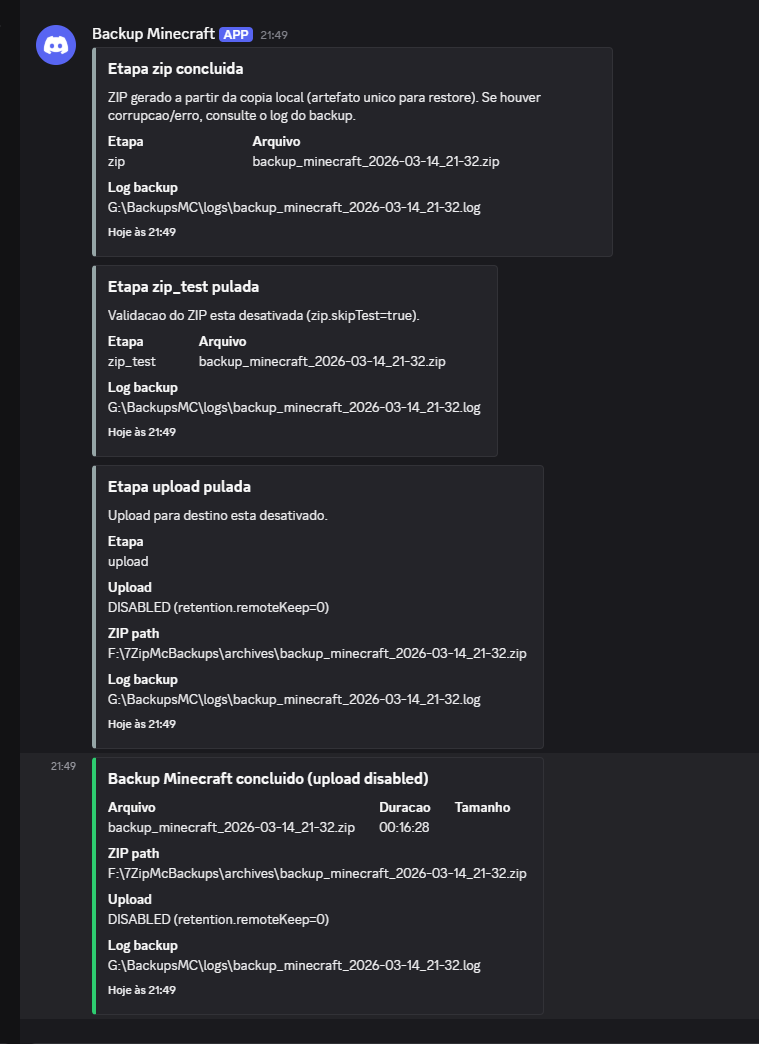
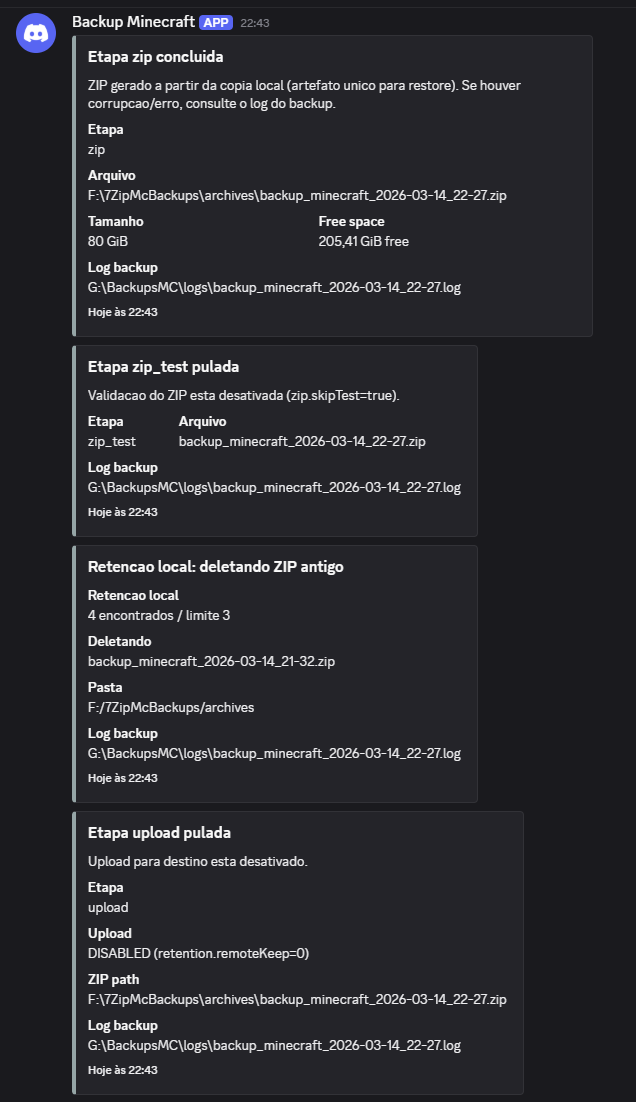
Adicionado informações de espaço em disco nas etapas zip

Changed region(s): [[0.0299, 0.0, 0.8066, 1.0], [0.5975, 0.7663, 0.6871, 0.7969]]

diff --git a/README.md b/README.md
@@ -75,45 +75,68 @@ O `config.json.example` contém todas as chaves suportadas. Resumo:
 
 #### `source`
 
-- `source.remote` (obrigatório)
+- `source.remote` (SFTP)
   - Nome do remote SFTP no `rclone` (ex.: `sftp_bedhost:`).
+  - Se vazio: so e aceito se `source.localPath` estiver preenchido.
+  - Se preenchido: o backup roda em modo SFTP e executa a etapa `sync` (rclone) para trazer os arquivos para a pasta local de trabalho.
+- `source.localPath` (local)
+  - Caminho local da pasta do servidor (ex.: `C:/minecraft/server`).
+  - Se estiver configurado, a etapa `sync` e pulada e o ZIP e gerado diretamente dessa pasta.
+  - Se vazio: o script usa `source.remote` (SFTP).
 - `source.exclude` (opcional)
-  - Lista de padrões para ignorar no sync (ex.: `logs/**`).
+  - Lista de padroes para ignorar no sync/zip (ex.: `logs/**`).
+  - Se vazio/ausente: nada e excluido.
+  - Se preenchido:
+    - No modo SFTP: vira `--exclude` no rclone.
+    - No modo local: vira `-xr!<padrao>` no 7-Zip.
 
 #### `work`
 
 - `work.tempDir` (obrigatório)
   - Pasta de trabalho (vai conter `sync_dir`, `logs`, e opcionalmente `archives`).
+  - Se vazio: o script falha no inicio (config invalido).
 - `work.syncDirName` (opcional)
   - Nome do diretório local sincronizado (padrão: `sync_dir`).
+  - Se vazio/ausente: usa `sync_dir`.
 - `work.localArchiveDir` (opcional)
   - Onde salvar os `.zip` quando `retention.localKeep > 0`.
+  - Se vazio/ausente: usa `<work.tempDir>/archives`.
 
 #### `retention`
 
 - `retention.localKeep` (opcional)
   - Quantos `.zip` manter localmente (0 = não manter).
+  - Se 0: o ZIP pode ser criado fora de `archives` e, se o upload estiver ativado, ele pode ser movido para o destino (nao fica copia local).
+  - Se > 0: o ZIP e salvo em `work.localArchiveDir` e o script deleta ZIPs antigos localmente ate manter somente esse limite.
 - `retention.remoteKeep` (obrigatório)
   - Quantos `.zip` manter no destino (0 = desativa upload/rotação no destino).
+  - Se 0: etapa `upload` e pulada e etapa `rotate` nao roda.
+  - Se > 0: faz upload e depois lista/deleta backups antigos no destino para manter somente esse limite.
 
 #### `zip`
 
 - `zip.compression` (opcional)
   - Nível `-mx` do 7-Zip (0 a 9).
+  - Se vazio/ausente: usa `2`.
 - `zip.skipTest` (opcional)
   - `true` para não rodar `7z t`.
+  - Se vazio/ausente: usa `false` (faz validacao).
 
 #### `dependencies`
 
 - `dependencies.sevenZip.windowsPath` (opcional)
   - Caminho do `7z.exe` no Windows.
+  - Se vazio/ausente: usa `C:\Program Files\7-Zip\7z.exe`.
 - `dependencies.sevenZip.linuxCommand` (opcional)
   - Comando do 7-Zip no Linux (ex.: `7z`).
+  - Se vazio/ausente: usa `7z`.
 
 #### `destination`
 
 - `destination.provider` (obrigatório)
   - `b2` | `gdrive` | `s3`.
+  - Se vazio: o script falha no inicio (config invalido).
+  - Impacto: define quais chaves abaixo sao obrigatorias e como montar o path do destino no rclone.
 
 Quando `provider=b2`:
 
@@ -121,10 +144,22 @@ Quando `provider=b2`:
 - `destination.b2.bucket` (obrigatório)
 - `destination.b2.prefix` (opcional)
 
+Observacoes:
+
+- `destination.b2.bucket` vazio: script falha (obrigatorio).
+- `destination.b2.prefix` vazio/ausente: destino vira somente `<remote>:<bucket>`.
+- `destination.b2.prefix` preenchido: destino vira `<remote>:<bucket>/<prefix>`.
+
 Quando `provider=gdrive`:
 
 - `destination.gdrive.remote` (obrigatório)
 - `destination.gdrive.folder` (opcional)
+
+Observacoes:
+
+- `destination.gdrive.remote` vazio: script falha.
+- `destination.gdrive.folder` vazio/ausente: destino vira somente `<remote>:`.
+- `destination.gdrive.folder` preenchido: destino vira `<remote>:<folder>`.
 
 Quando `provider=s3`:
 
@@ -132,9 +167,43 @@ Quando `provider=s3`:
 - `destination.s3.bucket` (opcional)
 - `destination.s3.prefix` (opcional)
 
+Observacoes:
+
+- `destination.s3.remote` vazio: script falha.
+- `destination.s3.bucket` vazio/ausente:
+  - destino vira `<remote>:` ou `<remote>:<prefix>` (se prefix for preenchido).
+- `destination.s3.bucket` preenchido:
+  - destino vira `<remote>:<bucket>` ou `<remote>:<bucket>/<prefix>` (se prefix for preenchido).
+
 #### `discord`
 
 Seção opcional para enviar notificações via webhook do Discord.
+
+- `discord.enabled`
+  - `true` habilita Discord.
+  - `false` desabilita tudo (nao envia webhook).
+- `discord.webhooks.normalUrl`
+  - Se vazio e `discord.enabled=true`: o script vai falhar ao tentar enviar (na pratica, nao faz sentido habilitar sem URL).
+- `discord.webhooks.alertUrl`
+  - Se vazio: falhas nao terao canal separado (dependendo da configuracao do modulo, pode tentar cair no normal).
+- `discord.identity.username`
+  - Se vazio/ausente: Discord usa o padrao do webhook.
+- `discord.identity.avatarUrl`
+  - Se vazio/ausente: sem avatar custom.
+- `discord.notifications.start|success|failure.enabled`
+  - Se `false`: nao envia esse tipo de mensagem.
+- `discord.mentions.onFailure.here`
+  - Se `true`: adiciona `@here` nas falhas.
+  - Se `false`: nao menciona.
+- `discord.mentions.onFailure.roleId`
+  - Se preenchido: menciona o cargo na falha (requer permissao do cargo no canal).
+- `discord.heartbeat.enabled`
+  - Se `true`: manda heartbeat periodico com progresso.
+- `discord.heartbeat.intervalSeconds`
+  - Se vazio/ausente: usa o padrao do script/modulo.
+- `discord.behavior.failBackupOnDiscordError`
+  - Se `true`: erro no webhook faz o backup falhar.
+  - Se `false`: backup continua mesmo se Discord falhar.
 
 </details>
 
@@ -187,6 +256,10 @@ Os **avisos no Discord** sao enviados apenas nos casos das **3 tentativas do scr
 
 <p align="center">
   <img src="img_examples/discord_success_upload_disabled.png" width="650" />
+</p>
+
+<p align="center">
+  <img src="img_examples/discord_success_upload_disabled2.png" width="650" />
 </p>
 
 ### Como funciona
